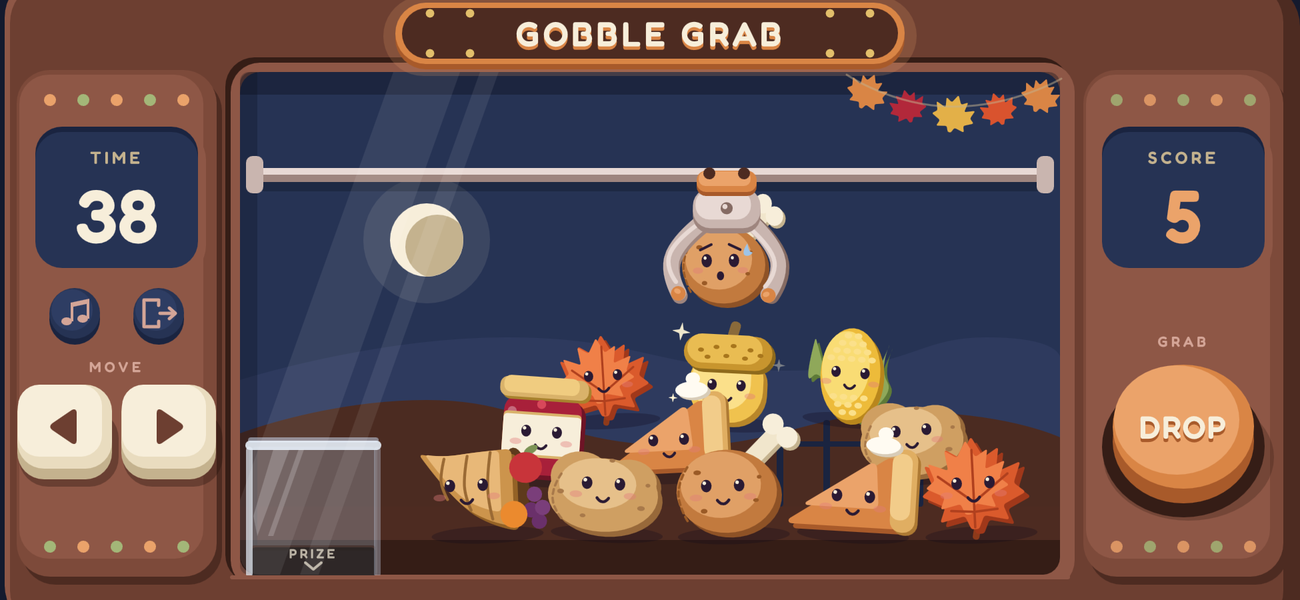
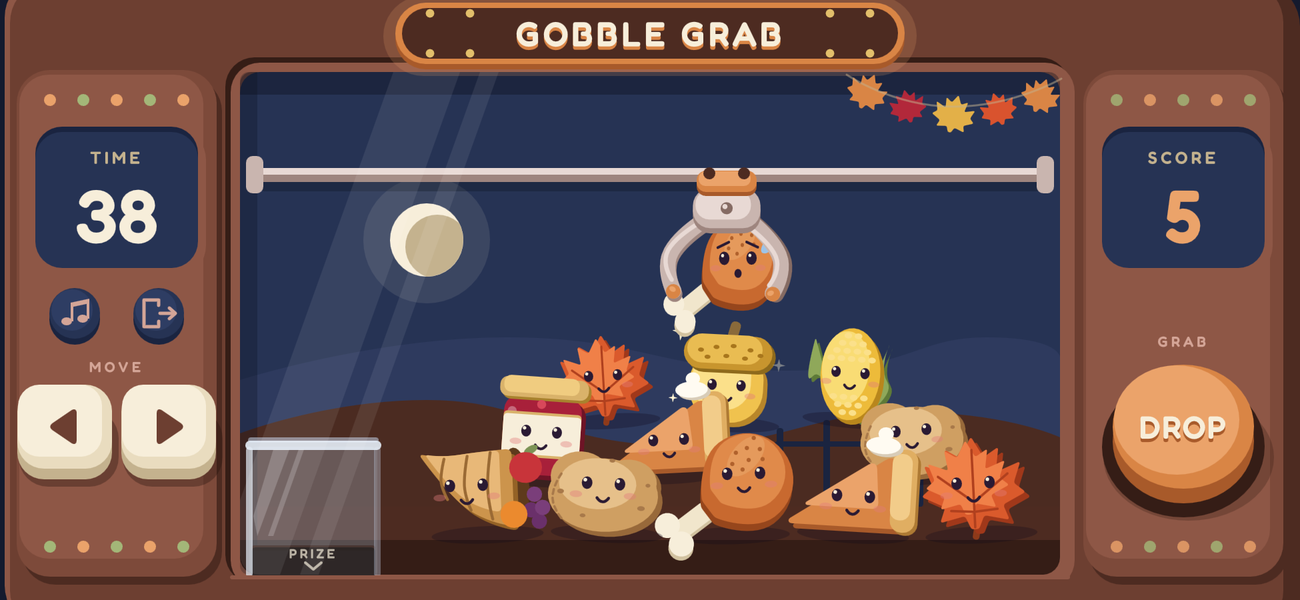
Add files via upload

Changed region(s): [[0.4923, 0.33, 0.6154, 0.57], [0.4923, 0.69, 0.6154, 0.93]]

diff --git a/index.html b/index.html
@@ -19,17 +19,17 @@
   <meta property="og:site_name" content="Gobble Grab">
   <meta property="og:title" content="Gobble Grab: a Thanksgiving claw machine game">
   <meta property="og:description" content="Grab as many plushies as you can in 60 seconds. Clear all 12 for a surprise FEAST BONUS!">
-  <meta property="og:url" content="https://heydaveperkins.github.io/gobble-grab-claw/">
-  <meta property="og:image" content="https://heydaveperkins.github.io/gobble-grab-claw/share.png">
+  <meta property="og:url" content="https://heydaveperkins.github.io/gobblegrab/">
+  <meta property="og:image" content="https://heydaveperkins.github.io/gobblegrab/share.png">
   <meta property="og:image:width" content="1200">
   <meta property="og:image:height" content="630">
   <meta property="og:image:alt" content="A wooden claw machine full of Thanksgiving plushies: turkey legs, pies, corn and a golden acorn">
   <meta name="twitter:card" content="summary_large_image">
   <meta name="twitter:title" content="Gobble Grab: a Thanksgiving claw machine game">
   <meta name="twitter:description" content="Grab as many plushies as you can in 60 seconds. Clear all 12 for a surprise FEAST BONUS!">
-  <meta name="twitter:image" content="https://heydaveperkins.github.io/gobble-grab-claw/share.png">
+  <meta name="twitter:image" content="https://heydaveperkins.github.io/gobblegrab/share.png">
   <link rel="preload" href="fonts/Fredoka-SemiBold.ttf" as="font" type="font/ttf" crossorigin>
-  <link rel="stylesheet" href="styles.css?v=202611060938">
+  <link rel="stylesheet" href="styles.css?v=202611061035">
 </head>
 <body>
   <main class="stage" id="stage">
@@ -237,6 +237,6 @@
        tools/build.sh bumps them on every build. -->
   <!-- Rive web runtime, pinned and vendored: @rive-app/webgl2 2.44.2 -->
   <script src="vendor/rive-webgl2-2.44.2/rive.js"></script>
-  <script src="game.js?v=202611060938"></script>
+  <script src="game.js?v=202611061035"></script>
 </body>
 </html>

diff --git a/game.js b/game.js
@@ -134,7 +134,7 @@
   // no consent banner. Set your site code (the part before .goatcounter.com)
   // to switch it on; left empty, nothing is loaded or sent. It is also off
   // with ?debug or ?tip in the address, and GoatCounter ignores localhost.
-  const GOATCOUNTER_CODE = ""; // set this to a new GoatCounter site code for Gobble Grab
+  const GOATCOUNTER_CODE = "gobblegrab";
   const analyticsOn = !!GOATCOUNTER_CODE && !/[?&](debug|tip)\b/.test(window.location.search);
   const pendingEvents = [];
 

diff --git a/README.md b/README.md
@@ -6,7 +6,7 @@
 
 <p align="center">
   A Thanksgiving claw machine game for your browser.<br>
-  <strong><a href="https://heydaveperkins.github.io/gobble-grab-claw/">Play it here</a></strong>
+  <strong><a href="https://heydaveperkins.github.io/gobblegrab/">Play it here</a></strong>
 </p>
 
 ![Gobble Grab: a wooden claw machine full of Thanksgiving plushies, with the timer and arrow buttons on the left and the score and DROP button on the right](screenshot.png)
@@ -33,7 +33,7 @@ screen**:
 
 ### iPhone and iPad
 
-1. Open **[heydaveperkins.github.io/gobble-grab-claw](https://heydaveperkins.github.io/gobble-grab-claw/)**
+1. Open **[heydaveperkins.github.io/gobblegrab](https://heydaveperkins.github.io/gobblegrab/)**
    in **Safari**.
 2. Tap the **Share** button: the square with an arrow pointing up out of it.
    - On iPhone it's in the toolbar at the bottom of the screen, or at the top
